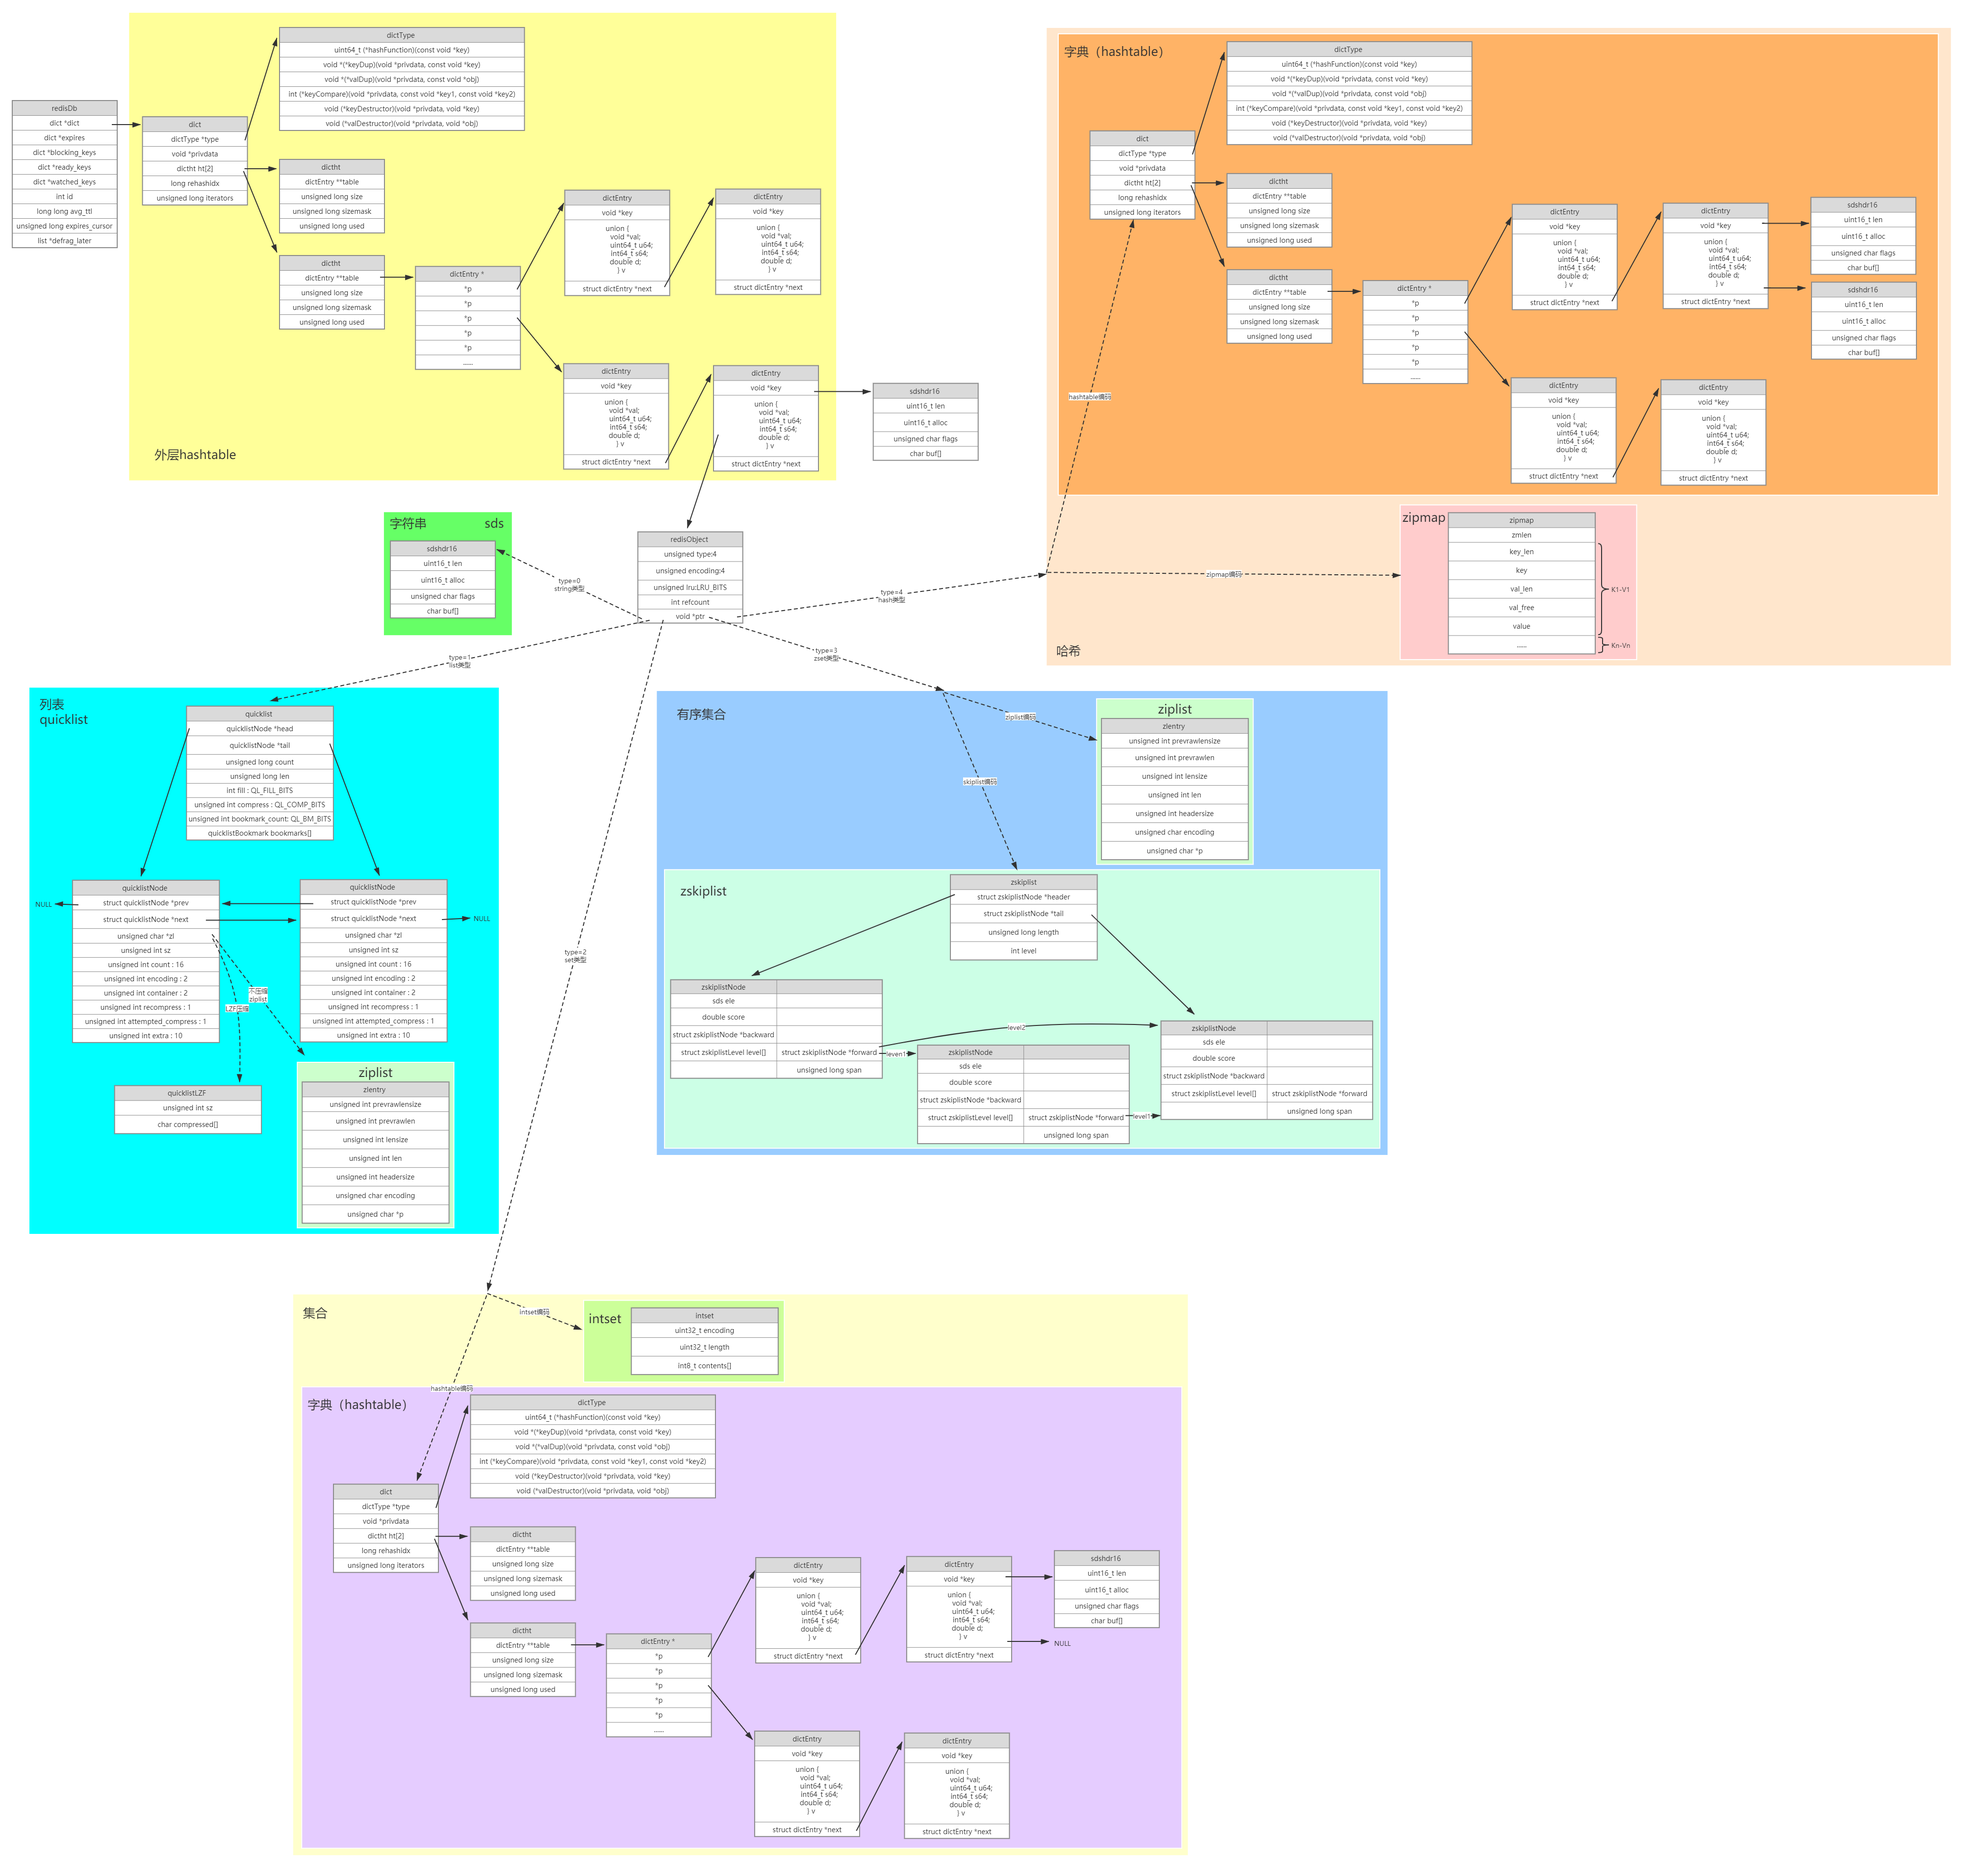
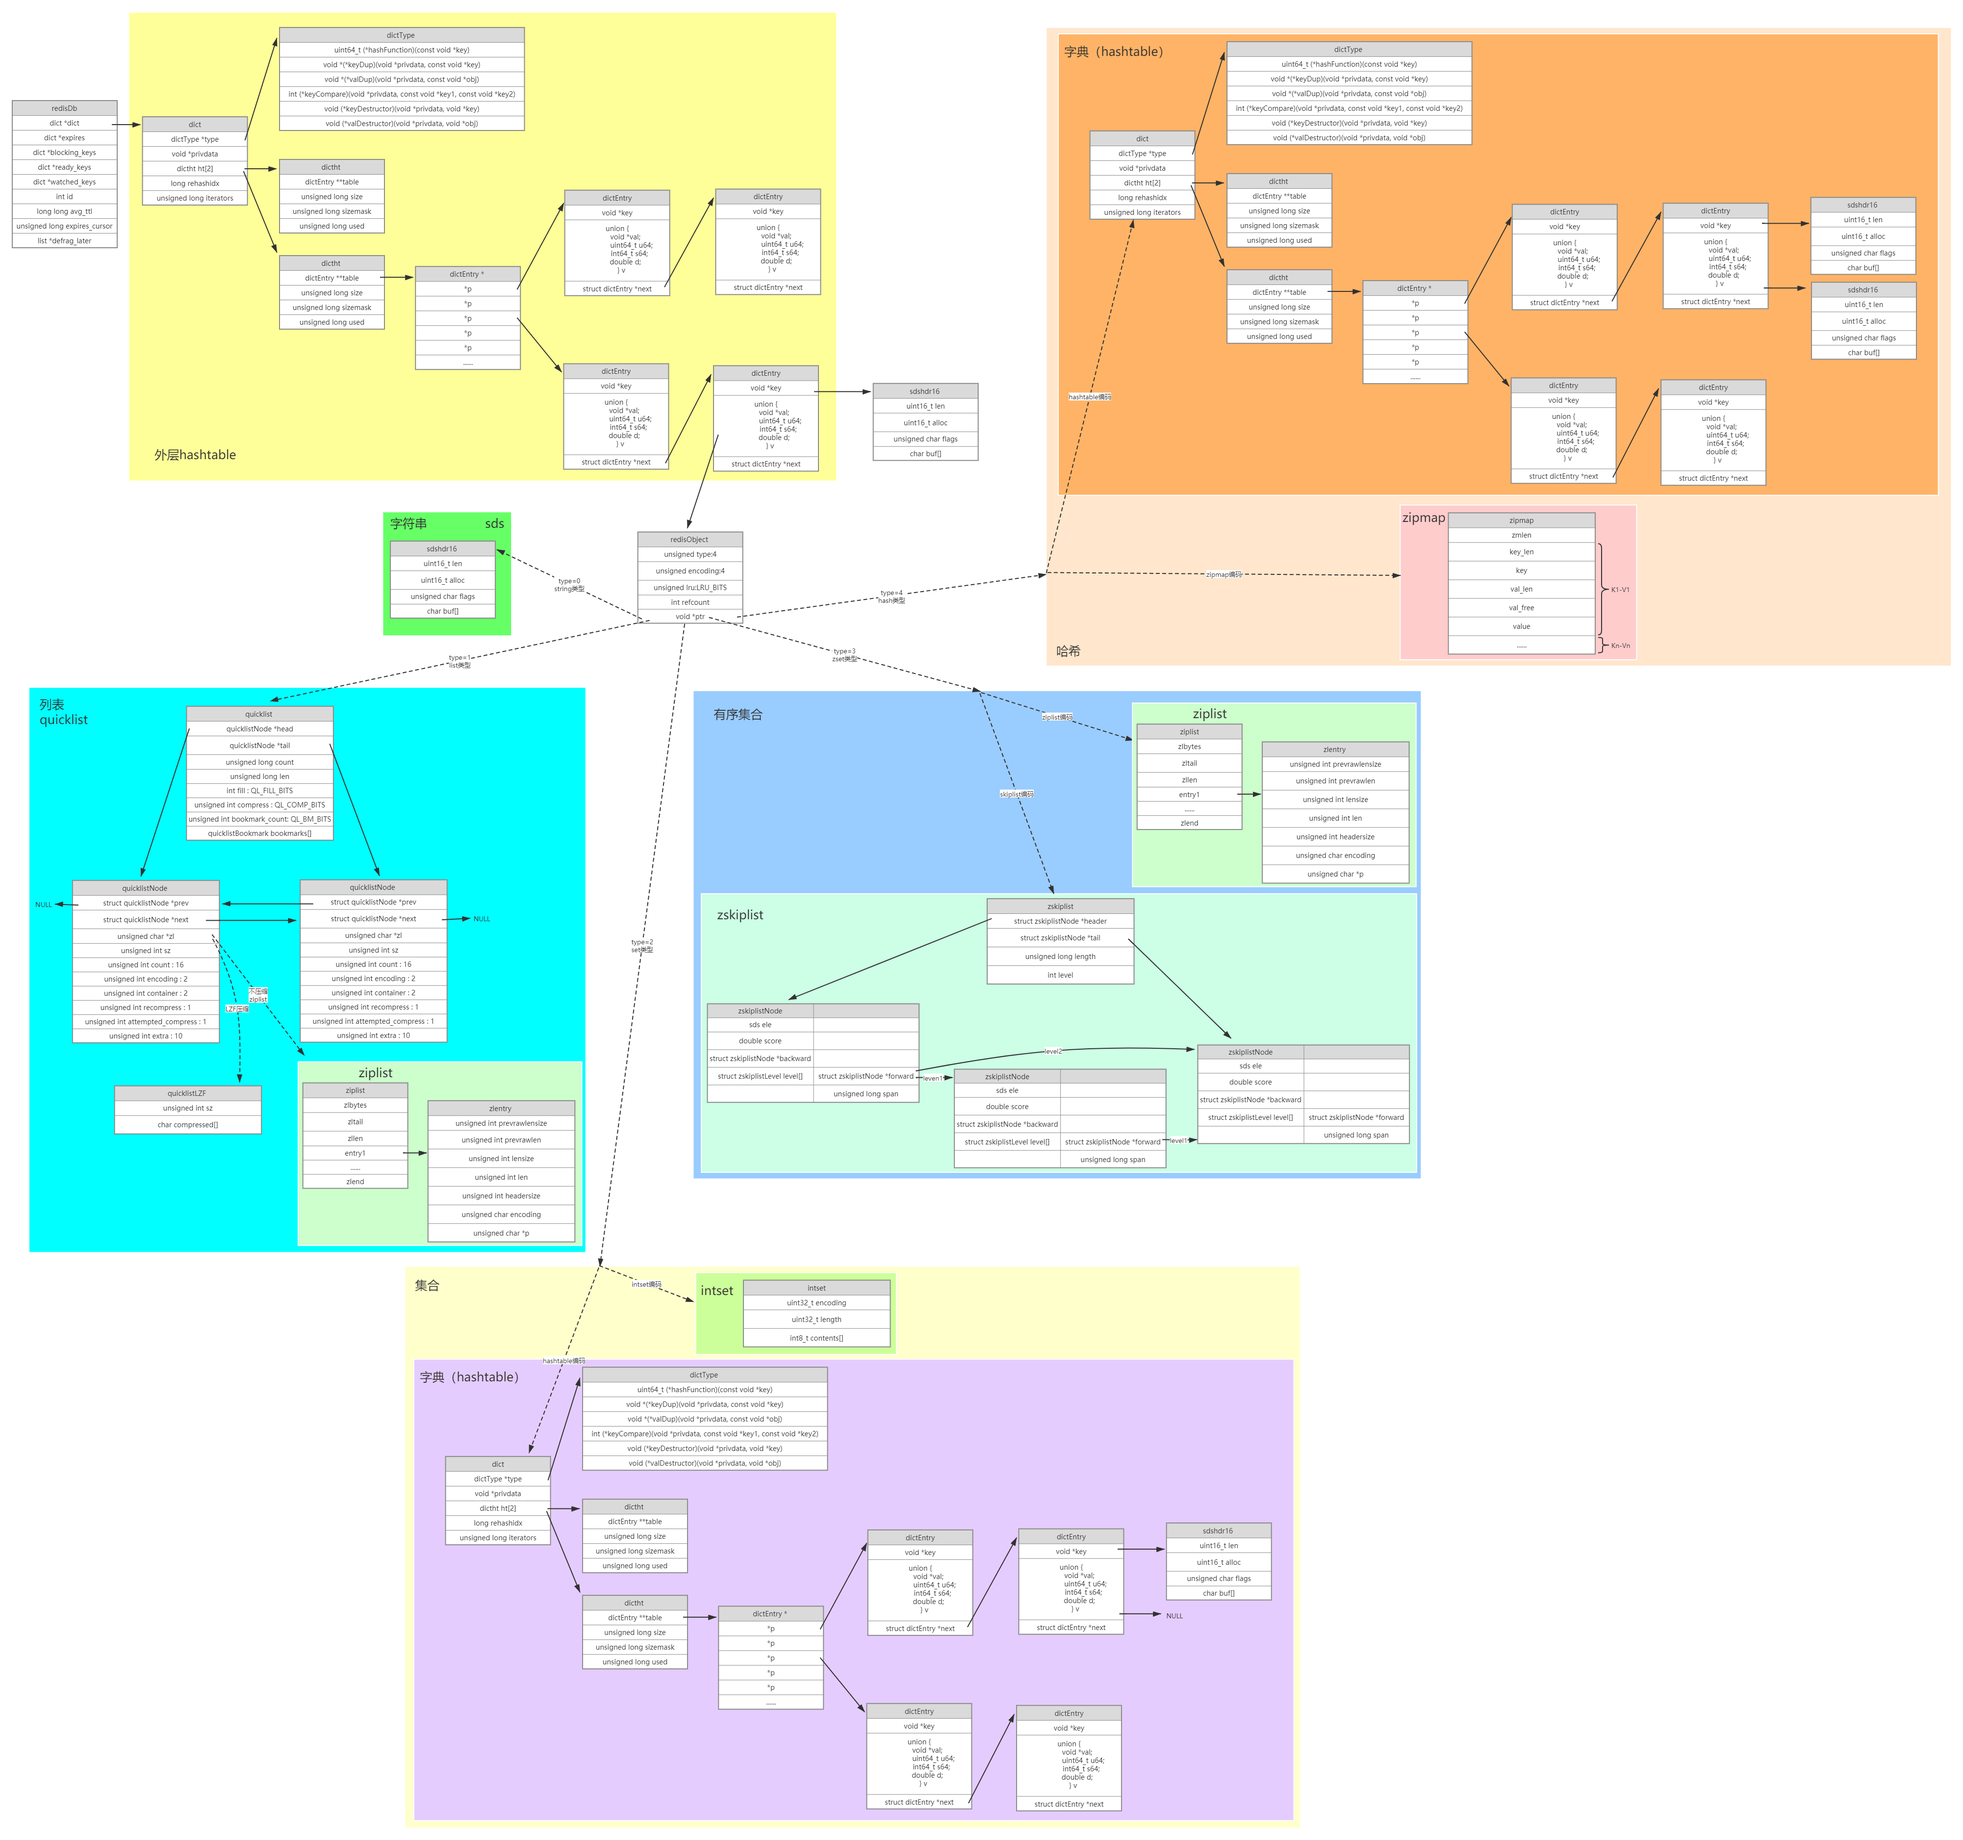
no message

Changed region(s): [[0.0, 0.0312, 0.9993, 0.9981], [0.0, 0.0, 0.281, 0.2183], [0.5309, 0.1872, 0.5621, 0.2183]]

diff --git a/3.VIP课程/2020-11-04（redis）/README.md b/3.VIP课程/2020-11-04（redis）/README.md
@@ -76,6 +76,9 @@
 
 + 所有value值使用`redisObject`类型存储，使用`type`属性表示5种基本数据类型
 + `ptr`指针指向真正的数据
++ `refcount`
+  + 引用计数，当技术大于1时表示这是1个`共享对象`
+  + 共享对象池：`0~9999`这些整形数字内置在共享对象池中，可以重复引用
 
 ### 字符串类型
 
@@ -111,6 +114,7 @@
 + `hashtable`
 
   + 不满足上面两个条件时使用该编码
+  + `set`集合使用`hashtable`编码时，`hashtable`中所有`value`值为`null`
 
 ### 有序集合
 
@@ -297,25 +301,110 @@ typedef struct zskiplistNode {
 
 + `redis`中`hashtable`上面加了两层，主要目的是准备两个哈希桶，用于实现扩容时的[渐进rehash](https://github.com/Mshuyan/redis#%E6%B8%90%E8%BF%9Brehash) 
 
-  
-
 ## ziplist
 
+![image-20201107105930651](assets/image-20201107105930651.png) 
 
++ 压缩列表分为2部分：`ziplist`、`zlentry`，`zlentry`镶嵌在`ziplist`内部
++ `ziplist`
+  + `zlbytes`：整个`ziplist`占用字节数；占用4字节
+  + `zltail`：尾节点偏移量；占用4字节
+  + `zllen`：节点数，小于65535时表示节点数，等于65535时需要遍历才能得到节点数；占用2字节
+  + `zlentry`
+    + `prevrawlensize`：前一节点长度占用字节数，值为1或5
+    + `prevrawlen`：前一节点长度
+    + `lensize`：当前元素长度占用字节数
+    + `len`：当前元素长度
+    + `headersize`头信息（前面四部分）字节数
+    + `encoding`：编码
+    + `p`：数据内容；这里实际不是指针，就是数组，内容就存在接下来的内存区域
++ 插入、修改、删除操作，是需要大量内存拷贝的
 
 ## quicklist
 
+![image-20201107140242085](assets/image-20201107140242085.png) 
 
++ `quicklist`就是`双向链表`+`ziplist`
 
 ## skiplist
 
+![](assets/zskiplist.png) 
 
++ 头尾节点一定是最高的节点
++ 要寻找`score=3`的节点时，查找轨迹如红色路线
 
 ## zipmap
 
+![image-20201107161726325](assets/image-20201107161726325.png) 
 
++ 就是k-v键值对一个一个往后放，查找时需要逐个遍历
 
+# 内存用量统计
 
+## 内存划分
+
++ 数据内存
+
+  用于存储数据库中的数据
+
++ 进程内存
+
+  程序运行需要的内存，包括数据内存、缓冲内存、内存碎片、常量池
+
++ 缓冲内存
+
+  数据收发客户端命令时需要使用缓冲内存对命令进行缓冲
+
++ 内存碎片
+
+  数据修改过程中产生的内存碎片
+
+## 内存统计
+
+我们可以在`redis`中使用`info memory`命令查看内存统计数据
+
+我们一般只需要关注如下几个数据：
+
++ `used_memory`
+
+  + 内存分配器分配的总内存大小，包括
+    + 数据内存
+    + 缓冲内存
+    + 虚拟（swap）内存
+  + 不包括内存碎片
+  + `used_memory_human`可以用`MB、KB`等人性化方式表示
+
++ `used_memory_rss`
+
+  + 操作系统给redis进程分配的总内存
+    + 数据内存
+    + 缓冲内存
+    + 内存碎片
+  + 不包括虚拟内存
+
++ `mem_fragmentation_ratio`
+
+  + 内存碎片比例；该值等于`used_memory_rss / used_memory`
+
+  + `redis`刚启动的时候，该值一般很大，因为还没有写入数据
+
+    但是运行一段时间之后，写入了足够多的数据，该值一般为`1.03`左右
+
+    + 大于`1`时表示内存碎片严重
+    + 小于`1`时表示使用了大量的虚拟内存，需要加大给`redis`进程分配的内存
+
+    想要查看内存碎片是不是太大了，需要结合`mem_fragmentation_bytes`和`mem_fragmentation_ratio`一起查看
+
+    + 如果这两个值都很大，说明内存碎片过大
+    + 如果`mem_fragmentation_bytes`并不大，`mem_fragmentation_ratio`很大，说明还是数据没有很多
+
++ `mem_fragmentation_bytes`
+
+  + 内存碎片大小
+
++ `mem_allocator`
+
+  + 内存分配器，默认`jemalloc`，无需修改
 
 
 
